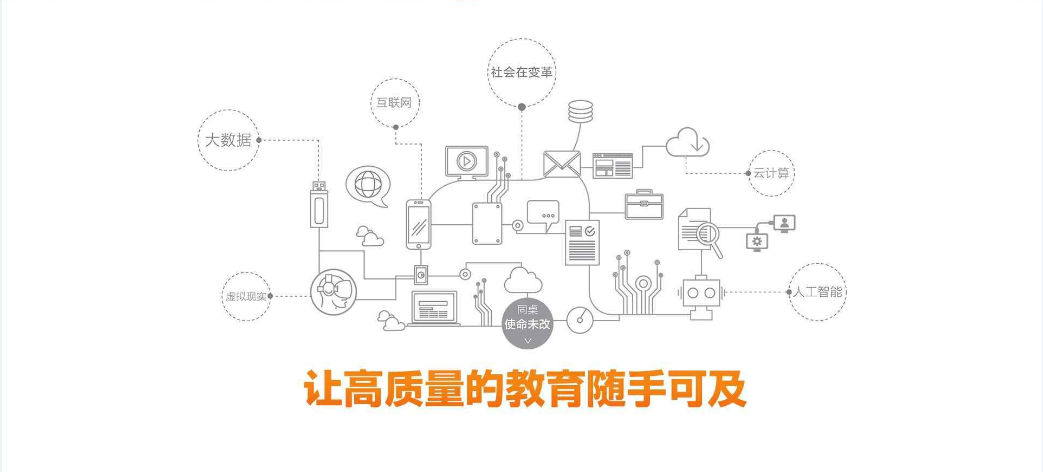
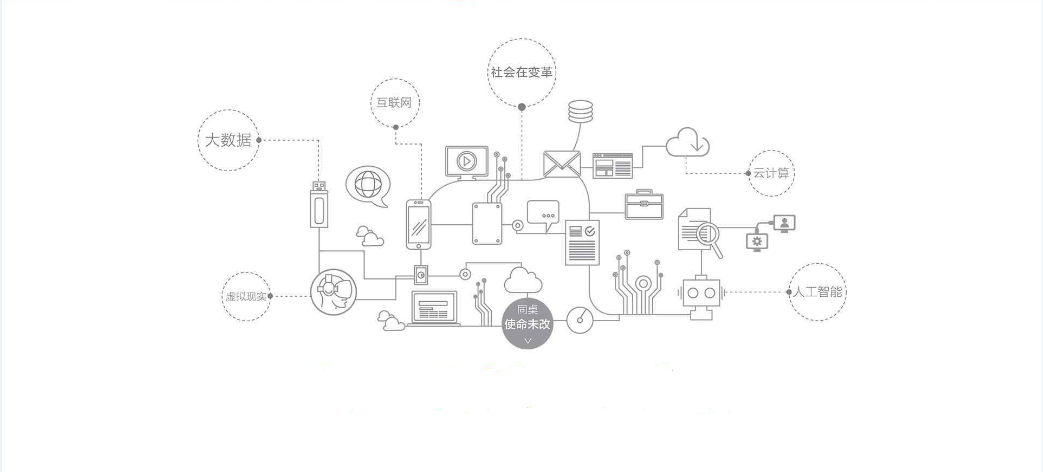
add

Changed region(s): [[0.2761, 0.7712, 0.7363, 0.8602]]

diff --git a/o/css/style.css b/o/css/style.css
@@ -2180,8 +2180,53 @@ a:hover{
 	min-width: 1100px;
 	text-align: center;
 	margin-top: 10px;
+	position: relative;
 }
 
 .index-banner img{
 	width: 100%;
+}
+
+.shiming-title{
+	position: absolute;
+	bottom: 15%;
+	font-size: 35px;
+	font-weight: bold;
+	text-align: center;
+	width: 100%;
+	color: rgb(251,115,37);
+}
+
+.shiming-title-two-top{
+	height: 65px;
+	position: absolute;
+	top: 28%;
+	font-size: 45px;
+	text-align: center;
+	width: 100%;
+	color: rgb(255,255,255);
+}
+
+.shiming-title-two-bot{
+	height: 38px;
+	line-height: 38px;
+	position: absolute;
+	top: 45%;
+	font-size: 12px;
+	text-align: center;
+	width: 100%;
+	color: rgb(255,255,255);
+}
+.shiming-title-two-bot .det{
+	margin-right: 15px;
+}
+
+.shiming-title-two-bot .det .icon-checked{
+	display: inline-block;
+	margin-top: -3px;
+	width: 14px;
+	height: 14px;
+	vertical-align: middle;
+	background-image: url(../imgs/123213121128213100.png);
+	background-size: 100% 100%;
 }

diff --git a/o/首页.html b/o/首页.html
@@ -69,20 +69,28 @@
         <img src="./imgs/20170608024144222.jpg" alt="">
     </div>
 
+    <!-- 让高质量的教育触手可及 -->
     <div class="index-banner">
         <img src="./imgs/12321342315522.png" alt="">
+        <div class="shiming-title">让高质量的教育触手可及</div>
     </div>
 
     <div class="index-banner">
         <img src="./imgs/12312431432.png" alt="">
+        <div class="shiming-title-two-top">提供极致的学习体验</div>
+        <div class="shiming-title-two-bot">
+            <span class="det"><i class="icon-checked"></i>课程有价值</span>
+            <span class="det"><i class="icon-checked"></i>学习优体验</span>
+            <span class="det"><i class="icon-checked"></i>学习无顾虑</span>
+        </div>
     </div>
 
-
-<!--  -->
 
 
     <div class="index-banner">
         <img src="./imgs/1232142147205812.png" alt="">
+
+        
     </div>
 
     <div class="index-banner">
